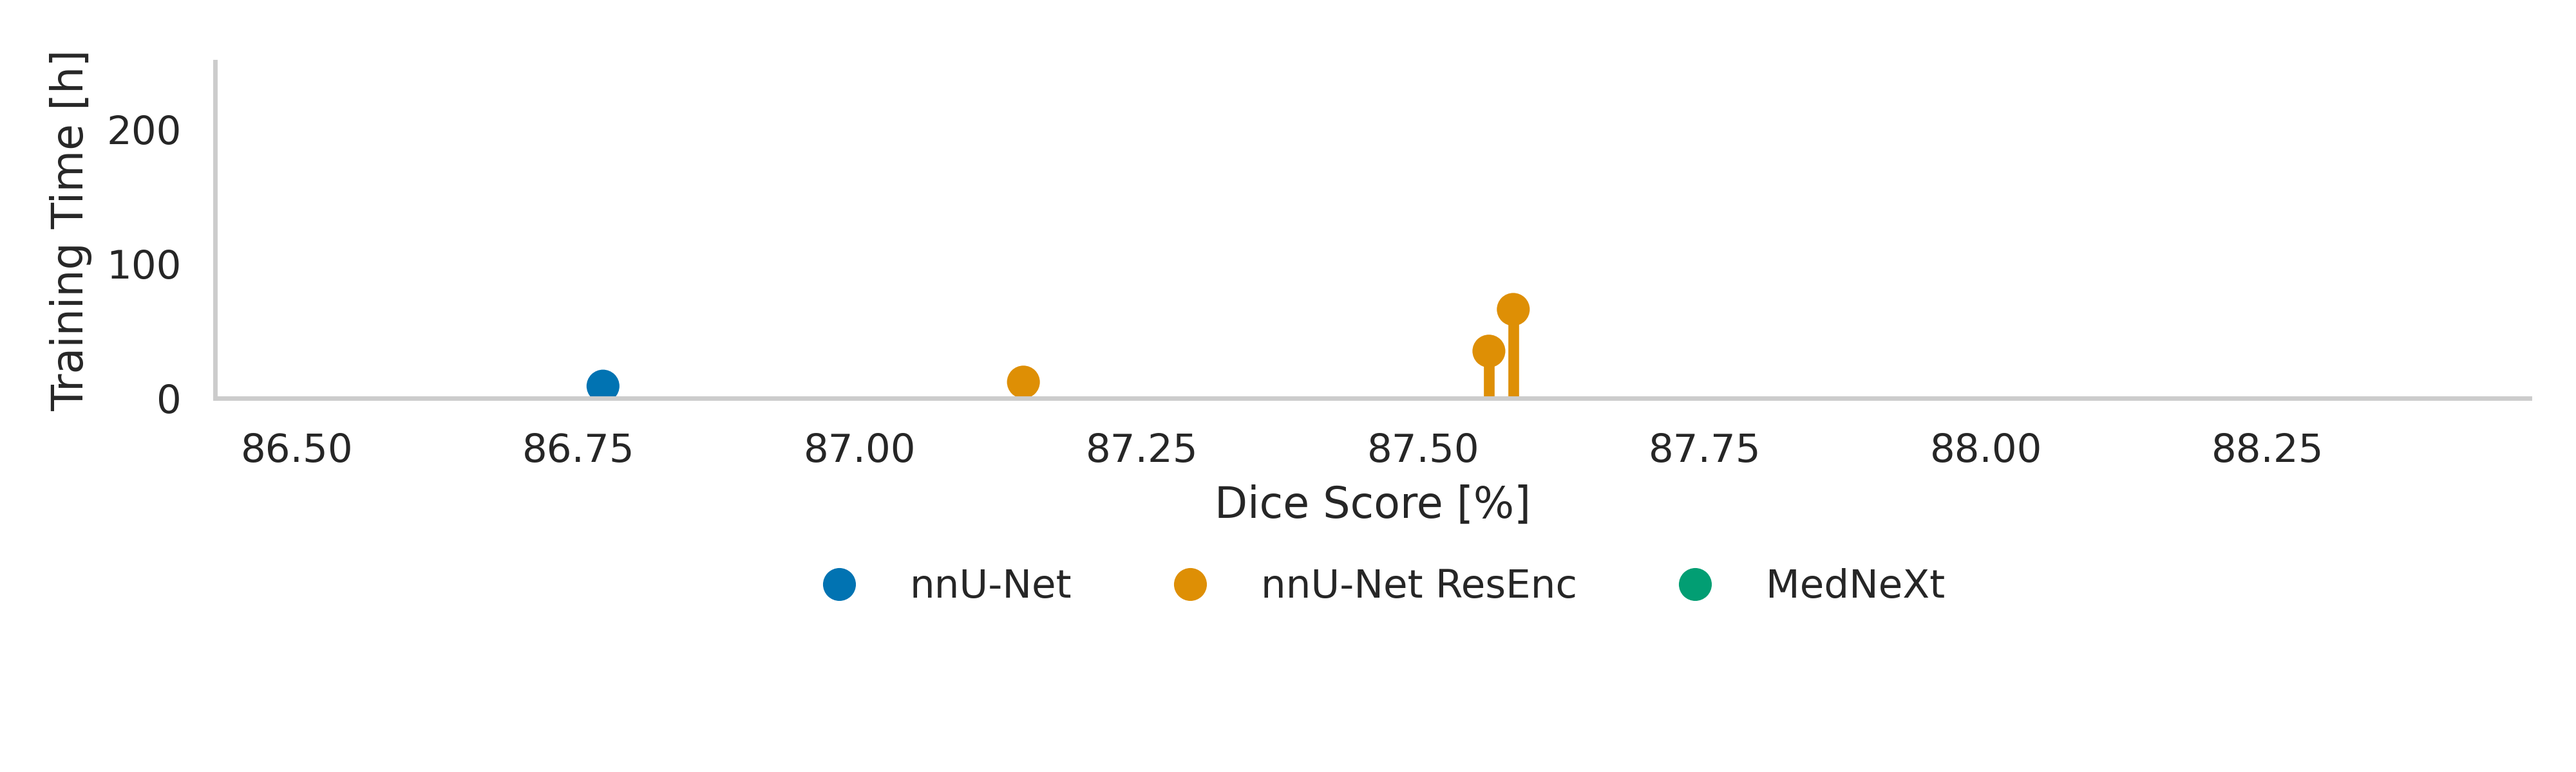
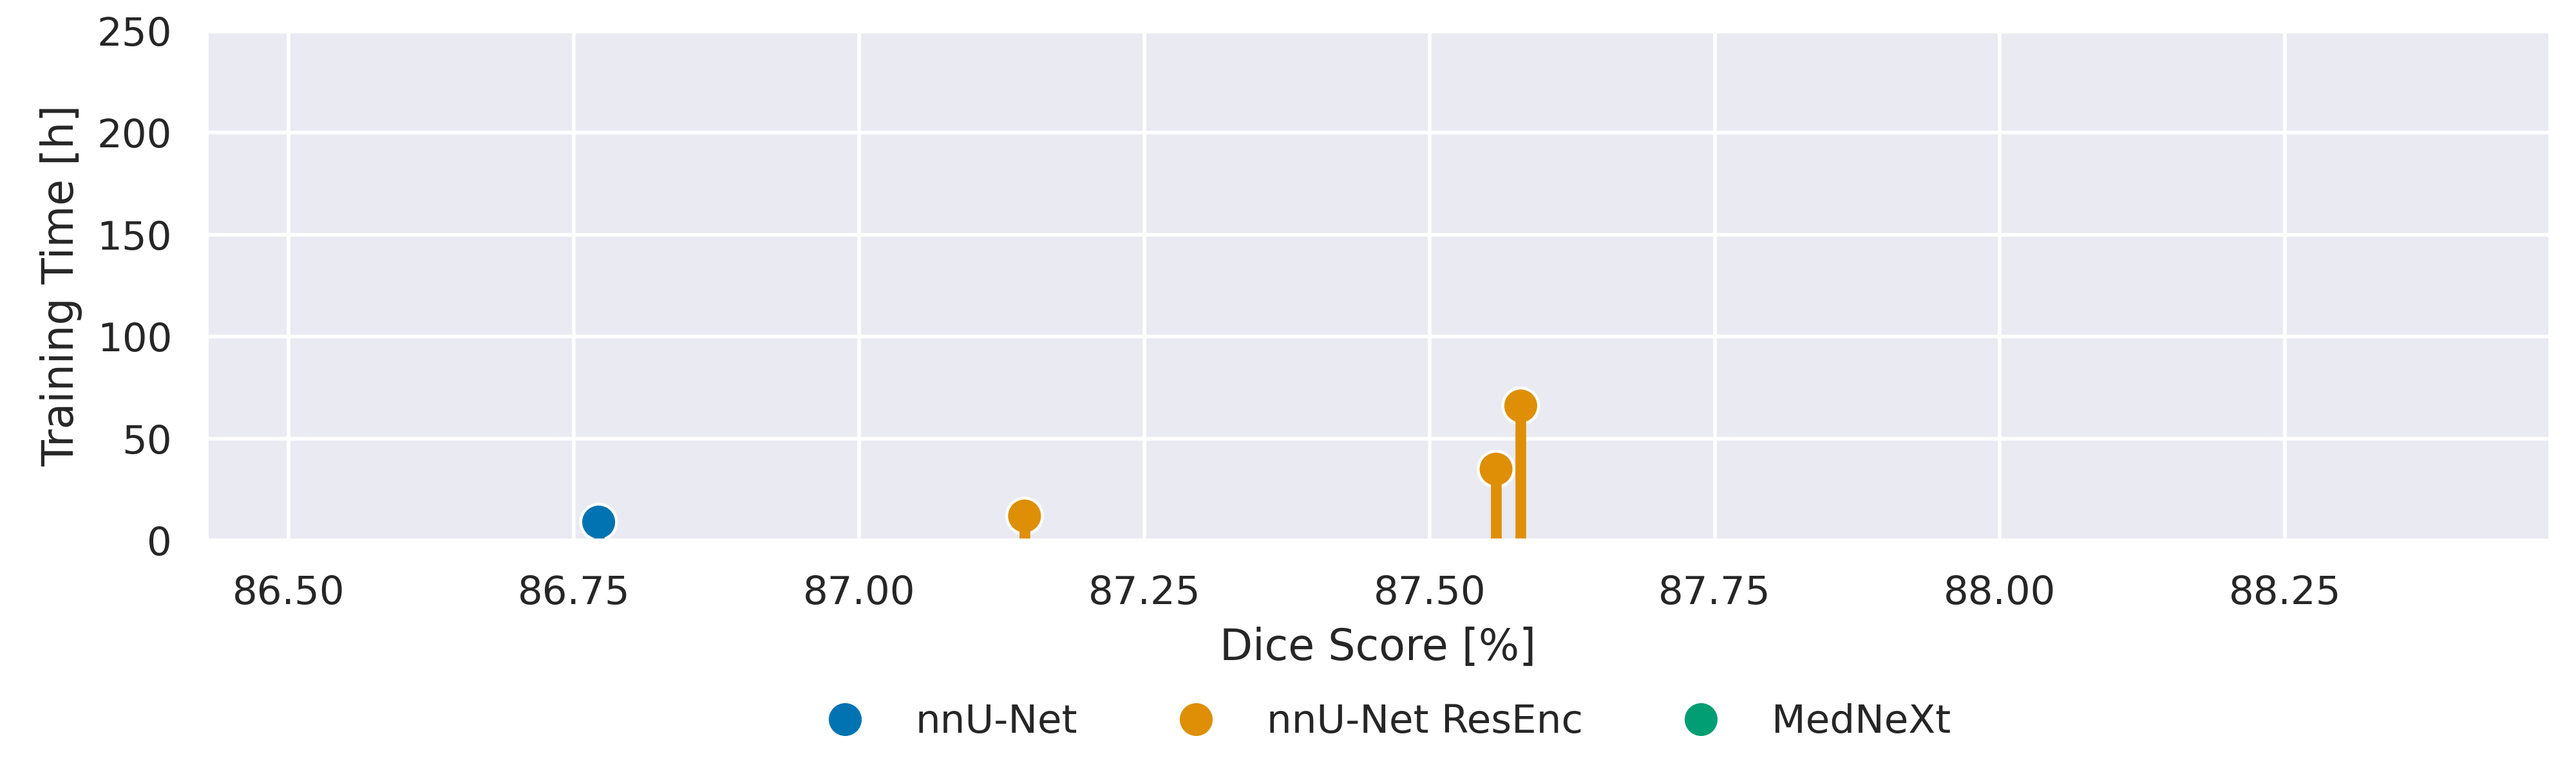
plots presentation

diff --git a/mockup_plots/training_time_vs_performance.py b/mockup_plots/training_time_vs_performance.py
@@ -29,7 +29,7 @@ def plot(step: int, prev_g=None):
 
     data["Dice"] = data["Dice"].apply(lambda x: np.mean(x))
 
-    plt.figure(figsize=(10, 3))
+    fig = plt.figure(figsize=(10, 3))
     g = sns.scatterplot(data=data, y="Runtime [h]", x="Dice", s=100, hue="Type", palette="colorblind")
     type_colors = {
         "nnU-Net": sns.color_palette("colorblind")[0],
@@ -56,18 +56,24 @@ def plot(step: int, prev_g=None):
         handles=handles,
         labels=labels,
         loc="upper center",
-        bbox_to_anchor=(0.5, -0.4),
+        bbox_to_anchor=(0.5, -0.25),
         ncol=3,
         fancybox=False,
         shadow=False,
         frameon=False,
     )
 
-    plt.grid(False)
-    g.spines['top'].set_visible(False)
-    g.spines['right'].set_visible(False)
+    fig.subplots_adjust(
+        top=0.96,   
+        bottom=0.3, 
+        left=0.08,  
+        right=0.99,  
+        # wspace=0.1  
+    )
 
-    plt.tight_layout()
+
+    plt.grid(True)
+
     plt.savefig(PLOTS_DIR / f"training_time_vs_performance_{step}.png", dpi=400)
 
     if prev_g:
@@ -76,7 +82,7 @@ def plot(step: int, prev_g=None):
         return g
 
 if __name__ == "__main__":
-    sns.set_theme(style="whitegrid")
+    sns.set_theme(style="darkgrid")
     sns.set_palette("colorblind")
 
     g = None
